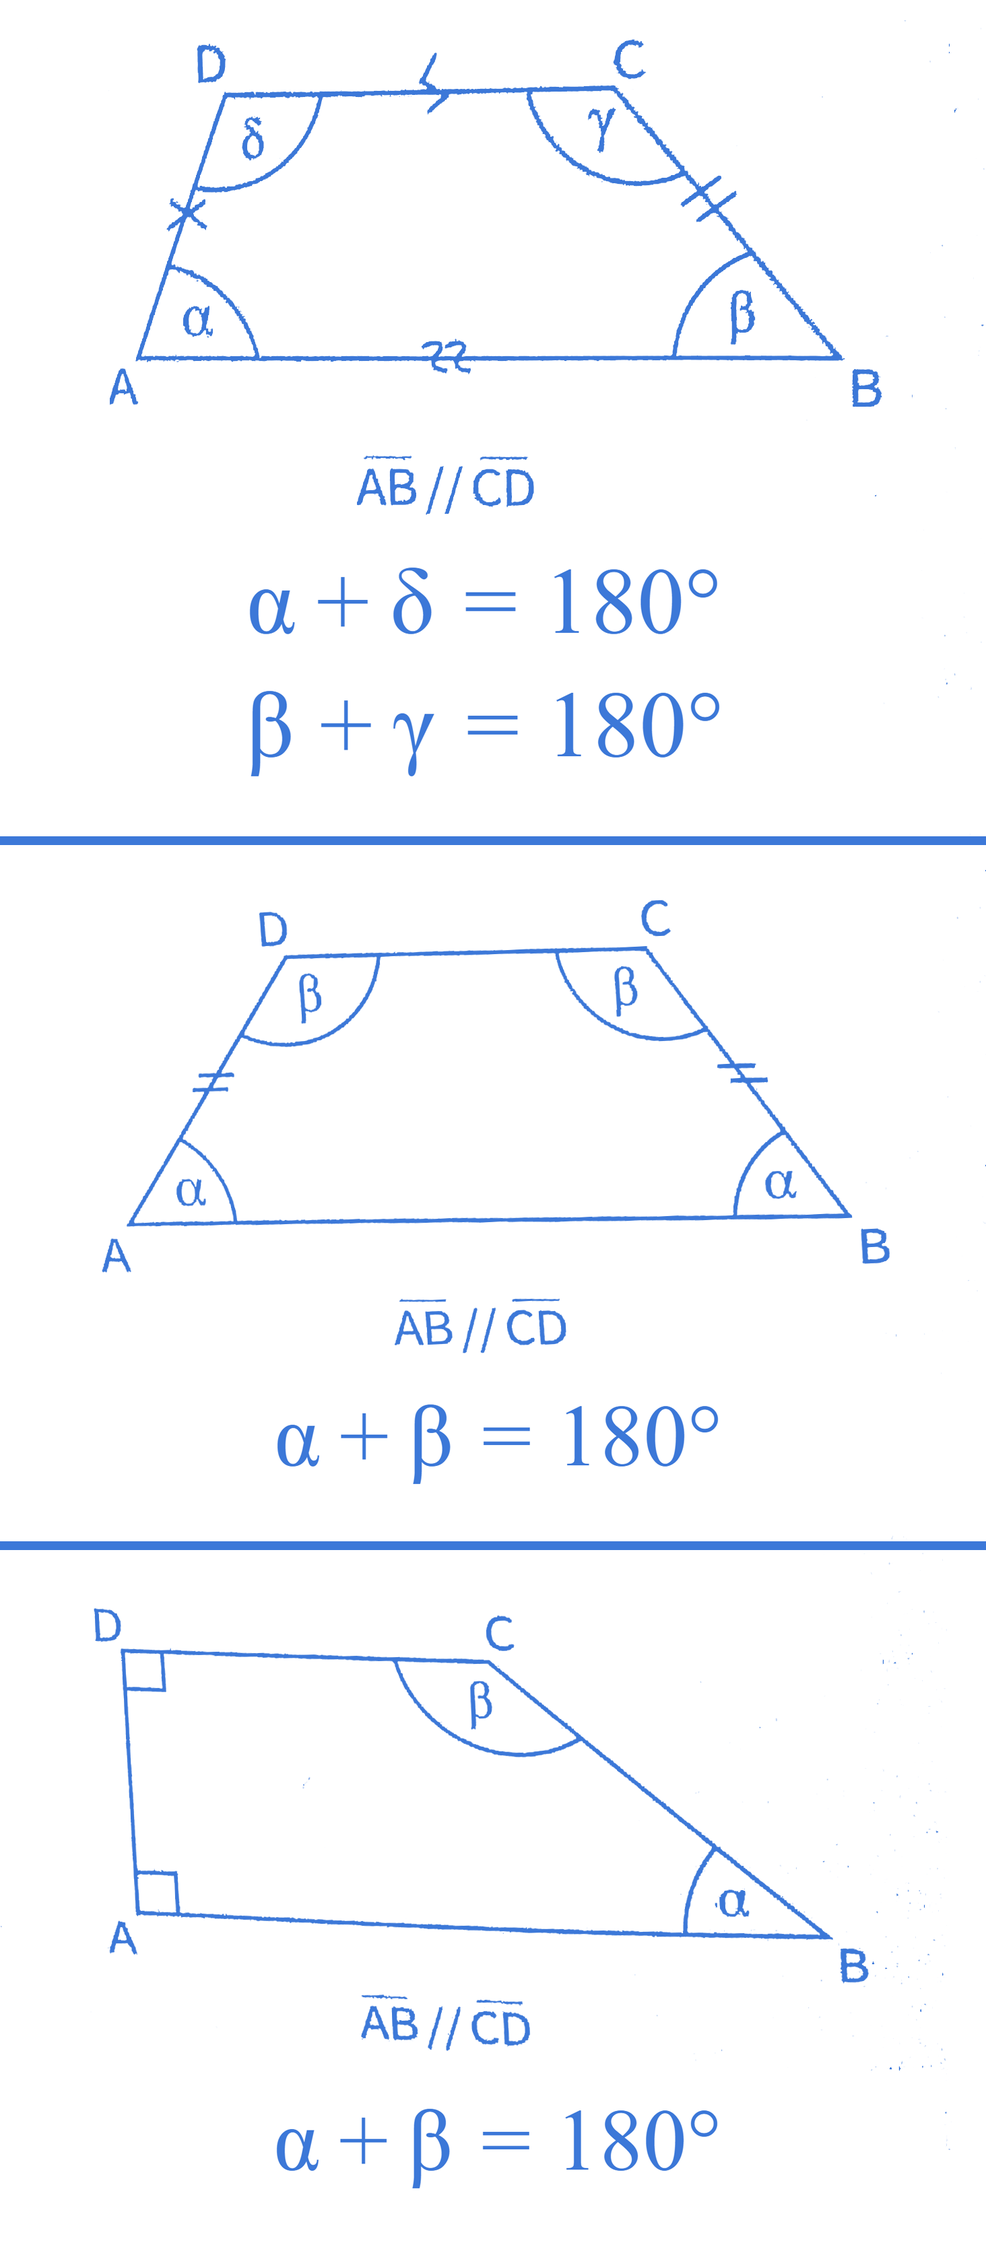
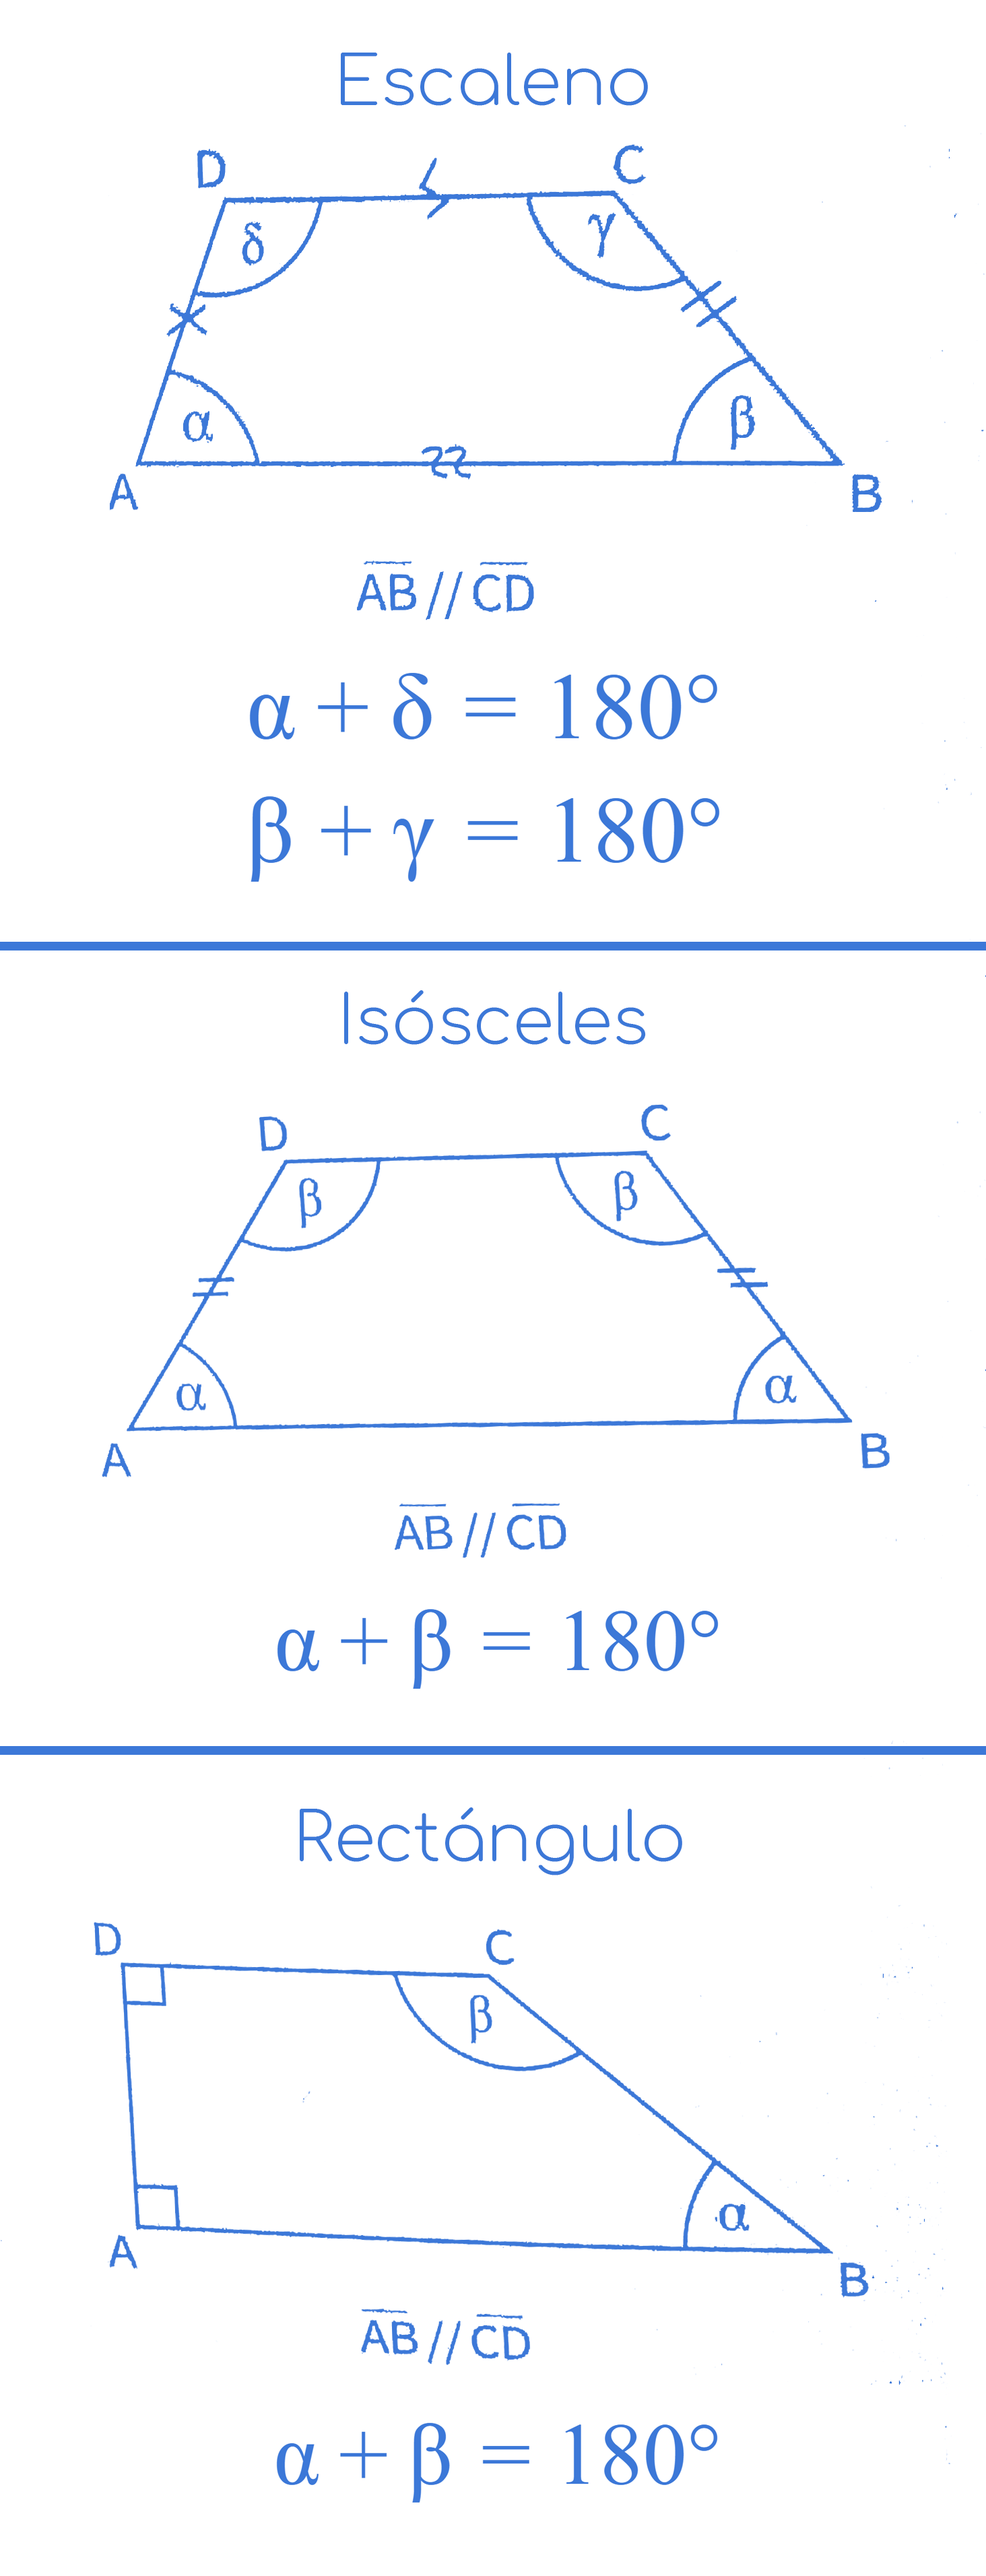
Triangles Content 1

diff --git a/lib/src/pages/new_hp.dart b/lib/src/pages/new_hp.dart
@@ -746,7 +746,7 @@ class _NewHomePageState extends State<NewHomePage> {
                   <FormulaButtonArguments>[],
                 ],
                 'Trapecios': [
-                  AssetImage('assets/img/mathformulas/pol.png'),
+                  AssetImage('assets/img/mathformulas/trap.png'),
                   null,
                   <FormulaButtonArguments>[],
                 ],
@@ -771,18 +771,13 @@ class _NewHomePageState extends State<NewHomePage> {
             formulas: FormulaArguments(
               tilesColor: colors.math[3],
               formulas: {
-                'Semejanza: LLL': [
-                  AssetImage('assets/img/mathformulas/sem1.png'),
+                'Clasificación': [
+                  AssetImage('assets/img/mathformulas/clas.png'),
                   null,
                   <FormulaButtonArguments>[],
                 ],
-                'Semejanza: LAL': [
-                  AssetImage('assets/img/mathformulas/sem3.png'),
-                  null,
-                  <FormulaButtonArguments>[],
-                ],
-                'Semejanza: AA': [
-                  AssetImage('assets/img/mathformulas/sem2.png'),
+                'Criterios de Semejanza': [
+                  AssetImage('assets/img/mathformulas/sem.png'),
                   null,
                   <FormulaButtonArguments>[],
                 ],
@@ -824,6 +819,36 @@ class _NewHomePageState extends State<NewHomePage> {
                 ],
                 'Teorema de Ángulos': [
                   AssetImage('assets/img/mathformulas/ang.png'),
+                  null,
+                  <FormulaButtonArguments>[],
+                ],
+                'Bisectriz': [
+                  AssetImage('assets/img/mathformulas/bis.png'),
+                  null,
+                  <FormulaButtonArguments>[],
+                ],
+                'Incentro': [
+                  AssetImage('assets/img/mathformulas/incentro.png'),
+                  null,
+                  <FormulaButtonArguments>[],
+                ],
+                'Transversal de Gravedad': [
+                  AssetImage('assets/img/mathformulas/tdg.png'),
+                  null,
+                  <FormulaButtonArguments>[],
+                ],
+                'Simetral': [
+                  AssetImage('assets/img/mathformulas/simetr.png'),
+                  null,
+                  <FormulaButtonArguments>[],
+                ],
+                'Circuncentro': [
+                  AssetImage('assets/img/mathformulas/cc.png'),
+                  null,
+                  <FormulaButtonArguments>[],
+                ],
+                'Mediana': [
+                  AssetImage('assets/img/mathformulas/medianat.png'),
                   null,
                   <FormulaButtonArguments>[],
                 ],
